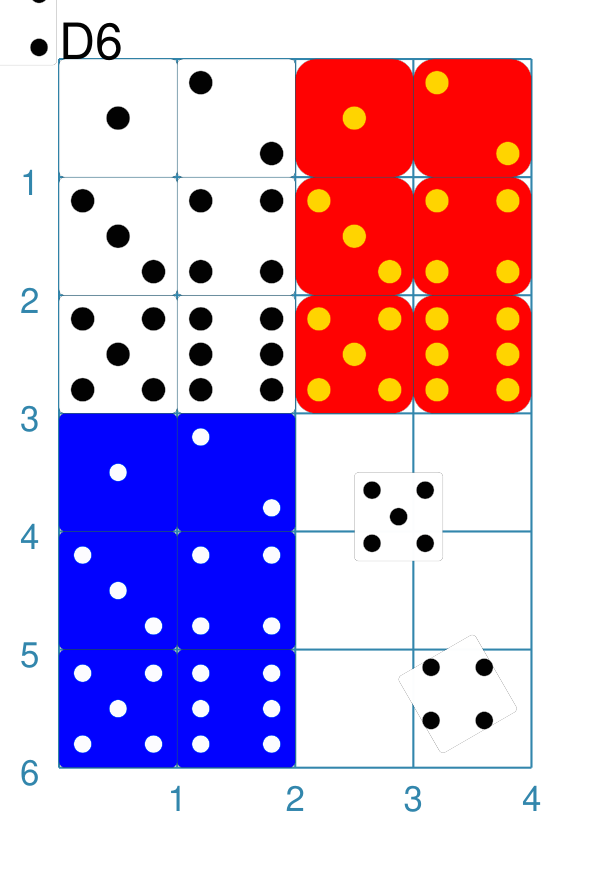
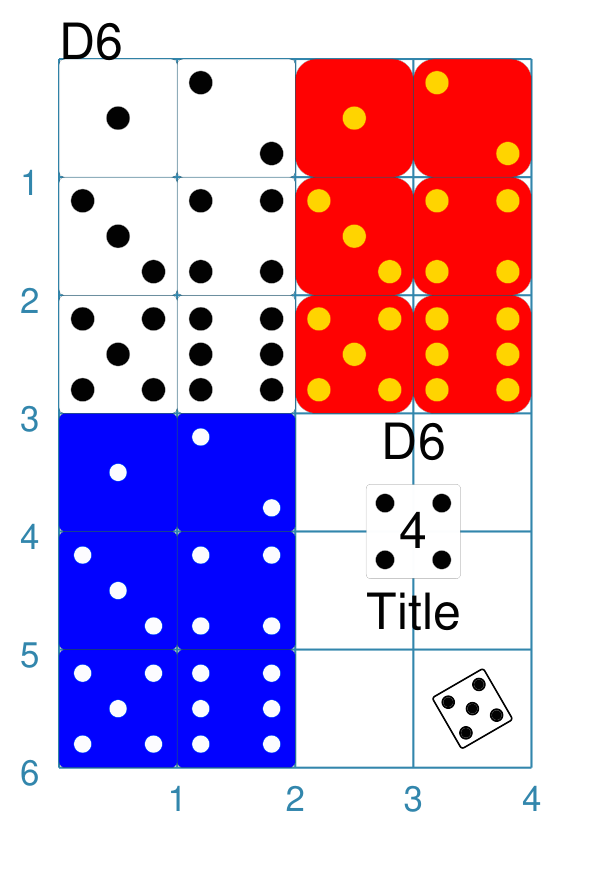
WIP on D6

Changed region(s): [[0.5889, 0.4629, 0.8369, 0.864], [0.031, 0.0309, 0.093, 0.0617], [0.6509, 0.7714, 0.6819, 0.8023]]

diff --git a/protograf/objects.py b/protograf/objects.py
@@ -590,6 +590,7 @@ class D6Object(BaseShape):
         if self.cx is not None and self.cy is not None:
             self.x = self.cx - self.width / 2.0
             self.y = self.cy - self.height / 2.0
+            # feedback(f"*** D6 OldX:{x} OldY:{y} NewX:{self.x} NewY:{self.y}")
         # overrides to make a "square rectangle"
         if self.width and not self.side:
             self.side = self.width
@@ -633,23 +634,29 @@ class D6Object(BaseShape):
         kwargs = self.kwargs | kwargs
         cnv = cnv if cnv else globals.canvas  # a new Page/Shape may now exist
         super().draw(cnv, off_x, off_y, ID, **kwargs)  # unit-based props
-        if self.cx is not None and self.cy is not None:
+        # ---- adjust start
+        if self.row is not None and self.col is not None:
+            x = self.col * self._u.width + self._o.delta_x
+            y = self.row * self._u.height + self._o.delta_y
+        elif self.cx is not None and self.cy is not None:
             x = self._u.cx - self._u.width / 2.0 + self._o.delta_x
             y = self._u.cy - self._u.height / 2.0 + self._o.delta_y
         else:
             x = self._u.x + self._o.delta_x
             y = self._u.y + self._o.delta_y
-        # ---- overrides to centre the shape
-        if kwargs.get("cx") and kwargs.get("cy"):
-            x = kwargs.get("cx") - self._u.width / 2.0
-            y = kwargs.get("cy") - self._u.height / 2.0
-        # ---- calculate centre
-        x_d = x + self._u.width / 2.0
-        y_d = y + self._u.height / 2.0
+        # ---- calculate centre of the shape
+        cx = x + self._u.width / 2.0
+        cy = y + self._u.height / 2.0
+        # ---- overrides for grid layout
+        if self._abs_cx is not None and self._abs_cy is not None:
+            cx = self._abs_cx
+            cy = self._abs_cy
+            x = cx - self._u.width / 2.0
+            y = cy - self._u.height / 2.0
         # ---- handle rotation
         rotation = kwargs.get("rotation", self.rotation)
         if rotation:
-            self.centroid = muPoint(x_d, y_d)
+            self.centroid = muPoint(cx, cy)
             kwargs["rotation"] = rotation
             kwargs["rotation_point"] = self.centroid
         else:
@@ -664,9 +671,7 @@ class D6Object(BaseShape):
             rounding = self.unit(self.rounding)
             radius = rounding / min(self._u.width, self._u.height)
         if radius and radius > 0.5:
-            feedback(
-                "The rounding radius cannot exceed 50% of the D6 side.", True
-            )
+            feedback("The rounding radius cannot exceed 50% of the D6 side.", True)
         # ---- draw the outline
         # feedback(f'*** D6 normal {radius=} {kwargs=}')
         cnv.draw_rect((x, y, x + self._u.width, y + self._u.height), radius=radius)
@@ -714,12 +719,15 @@ class D6Object(BaseShape):
         pargs = {}
         pargs["stroke"] = self.pip_stroke
         pargs["fill"] = self.pip_fill
+        if rotation:
+            pargs["rotation"] = rotation
+            pargs["rotation_point"] = self.centroid
         self.set_canvas_props(cnv=None, index=ID, **pargs)
+        # ---- cross
+        self.draw_cross(cnv, cx, cy, rotation=kwargs.get("rotation"))
+        # ---- dot
+        self.draw_dot(cnv, cx, cy)
         # ---- text
-        self.draw_heading(
-            cnv, ID, x_d, y_d - 0.5 * self._u.height, **kwargs
-        )
-        self.draw_label(cnv, ID, x_d, y_d, **kwargs)
-        self.draw_title(
-            cnv, ID, x_d, y_d + 0.5 * self._u.height, **kwargs
-        )
+        self.draw_heading(cnv, ID, cx, cy - 0.5 * self._u.height, **kwargs)
+        self.draw_label(cnv, ID, cx, cy, **kwargs)
+        self.draw_title(cnv, ID, cx, cy + 0.5 * self._u.height, **kwargs)

diff --git a/examples/objects/dice_d6.py b/examples/objects/dice_d6.py
@@ -50,10 +50,9 @@ D6(x=1, y=4, roll=4, common=blu_wite)
 D6(x=0, y=5, roll=5, common=blu_wite)
 D6(x=1, y=5, roll=6, common=blu_wite)
 
-# ---- sized and rotated D6
-D6(x=2.5, y=3.5, side=0.75, roll=4, title="Title", heading="D6", label="5")
-D6(cx=3, cy=5, side=0.75, roll=6)
-D6(x=3, y=5, side=0.75, roll=5, rotation=30)
+# ---- sized, labelled & rotated D6
+D6(x=2.6, y=3.6, side=0.8, roll=4, title="Title", heading="D6", label="4")
+D6(cx=3.5, cy=5.5, side=0.5, roll=5, stroke_width=0.5, rotation=30)
 
 Save(
     output='png',

diff --git a/protograf/shapes.py b/protograf/shapes.py
@@ -4143,7 +4143,7 @@ class StadiumShape(BaseShape):
         if self.cx is not None and self.cy is not None:
             self.x = self.cx - self.width / 2.0
             self.y = self.cy - self.height / 2.0
-            # feedback(f"*** INIT OldX:{x} OldY:{y} NewX:{self.x} NewY:{self.y}")
+            # feedback(f"*** STADIUM OldX:{x} OldY:{y} NewX:{self.x} NewY:{self.y}")
         self.kwargs = kwargs
 
     def draw(self, cnv=None, off_x=0, off_y=0, ID=None, **kwargs):

diff --git a/protograf/dice.py b/protograf/dice.py
@@ -1,6 +1,8 @@
 # -*- coding: utf-8 -*-
 """
 Dice functions for protograf
+
+Note: for the D6 Shape - see objects.py
 """
 # lib
 import random

diff --git a/docs/source/objects.rst b/docs/source/objects.rst
@@ -21,8 +21,29 @@ with customised properties, in addition to the basic set of
 
 In many cases, these are constructed out of one or more of the core shapes;
 for example, `polyominoes`_ are composed of one or more
-:ref:`squares <square-command>`. Thus they are able to use, or reference, the
-properties of these shapes, in addition to their own particular properties.
+:ref:`squares <square-command>` and simple `dice`_ are also a single square.
+Thus they are able to use, or reference, many of the properties of these
+shapes, in addition to their own particular properties.
+
+
+Dice
+====
+
+Dice are used in many games, and being able to readily create a basic
+depiction of them can be useful.
+
+For more details, see the section on :doc:`Dice <dice>`.
+
+
+Tetrominoes
+===========
+
+Similar to Pentominoes, these are each composed of **4** squares in one of 5
+unique patterns. They can also referred to by their shortcut ``letter``
+property.
+
+For more details, see the section on :doc:`Tetrominoes <tetrominoes>`.
+
 
 Polyominoes
 ===========
